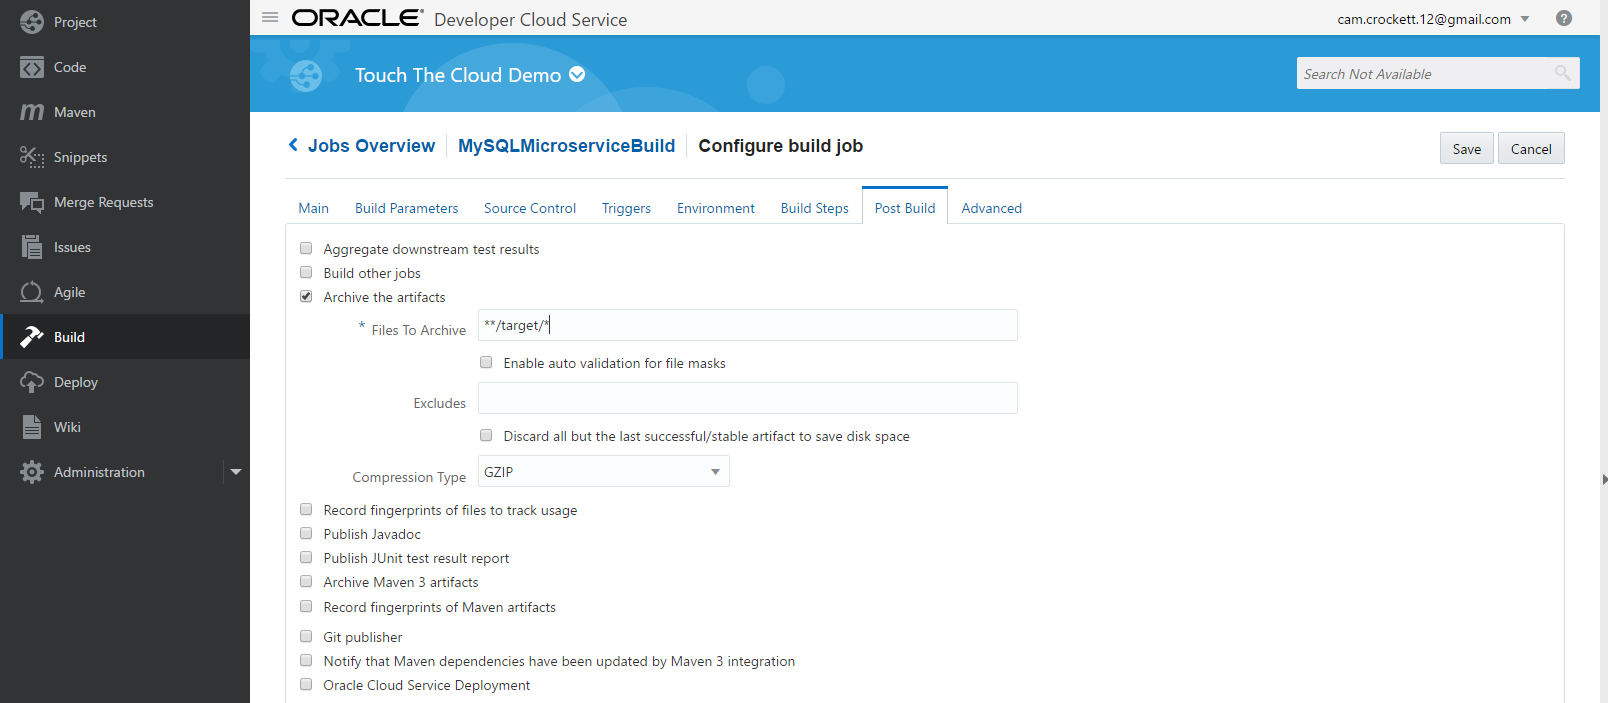
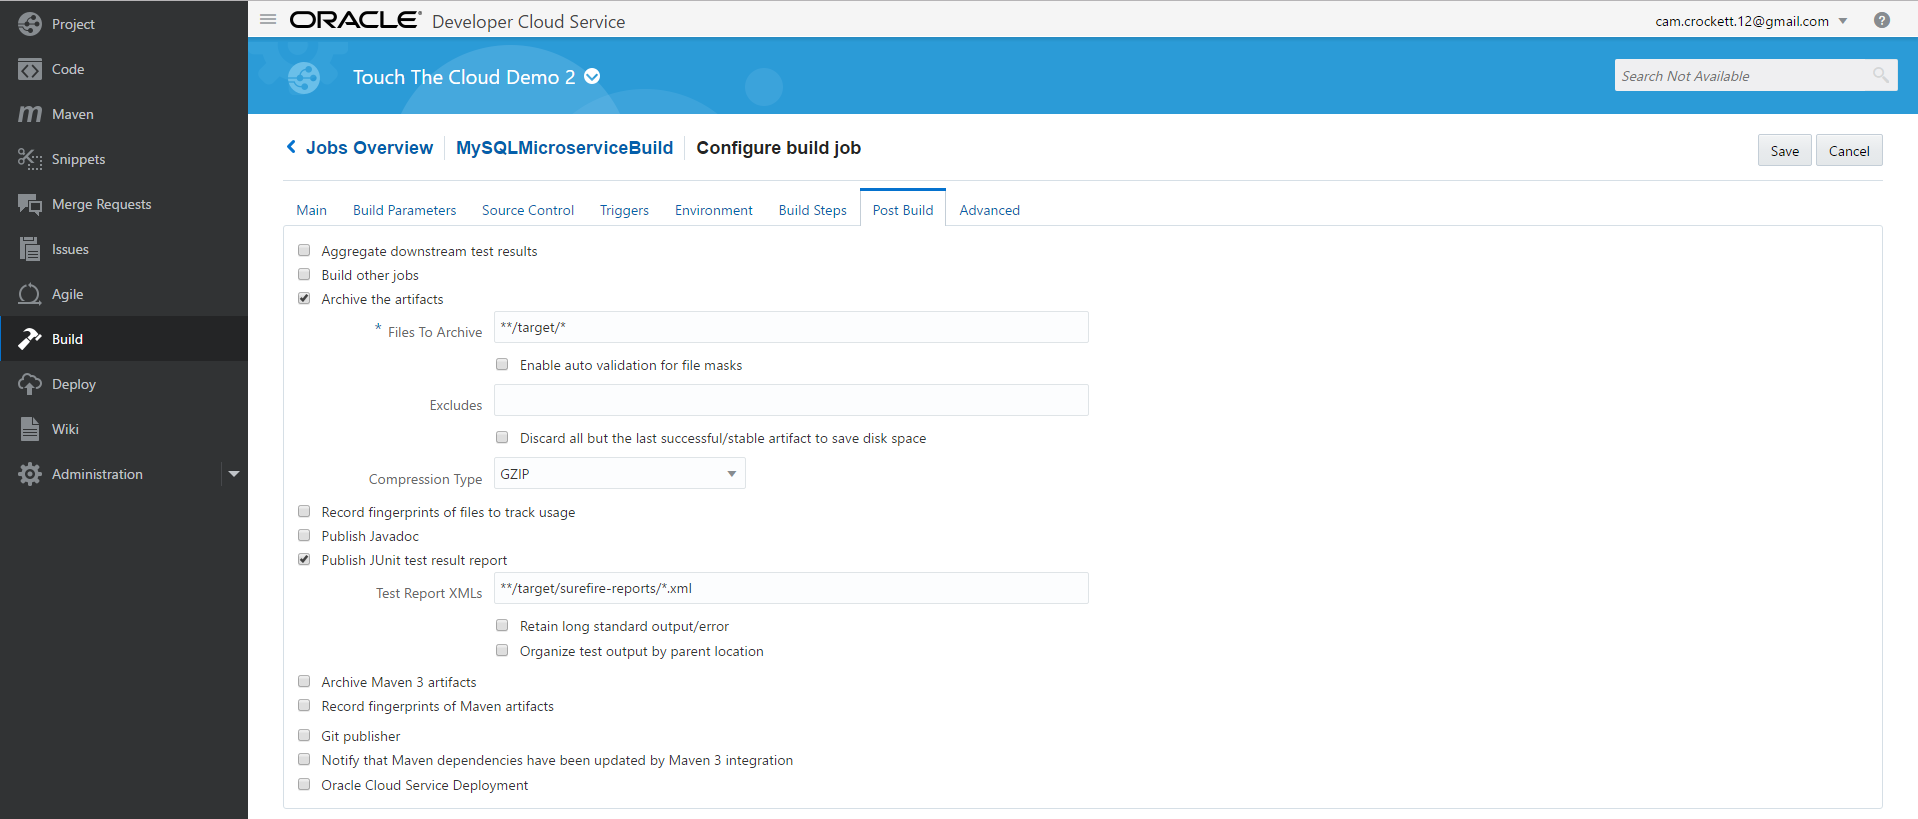
Updating build step and image

diff --git a/LabGuide200.md b/LabGuide200.md
@@ -75,7 +75,7 @@ Oracle Developer Cloud Service provides a complete development platform that str
 
 
 ```
-Name: MySQL Microservice
+Name: MySQLMicroservice
 Select Import from Existing Repository:
 https://github.com/c-rocket/TTC-MySQLMicroservice.git
 ```
@@ -107,7 +107,7 @@ https://github.com/c-rocket/TTC-MySQLMicroservice.git
 
 ![](images/200/step08.png)
 
-- Select the **Build Step** Add a Maven Build
+- Select the **Build Step** Add a **Maven 3** build step
 
 ![](images/200/step09.png)
 
@@ -119,7 +119,13 @@ clean assembly:assembly
 
 ![](images/200/step10.png)
 
-- Select the **Post Build** step and Archive the artifacts by adding `**/target/*`
+- Select the **Post Build** tab
+
+
+```
+Archive the artifacts: **/target/*
+Public JUnit test result report: **/target/surefire-reports/*.xml
+```
 
 ![](images/200/step11.png)
 
